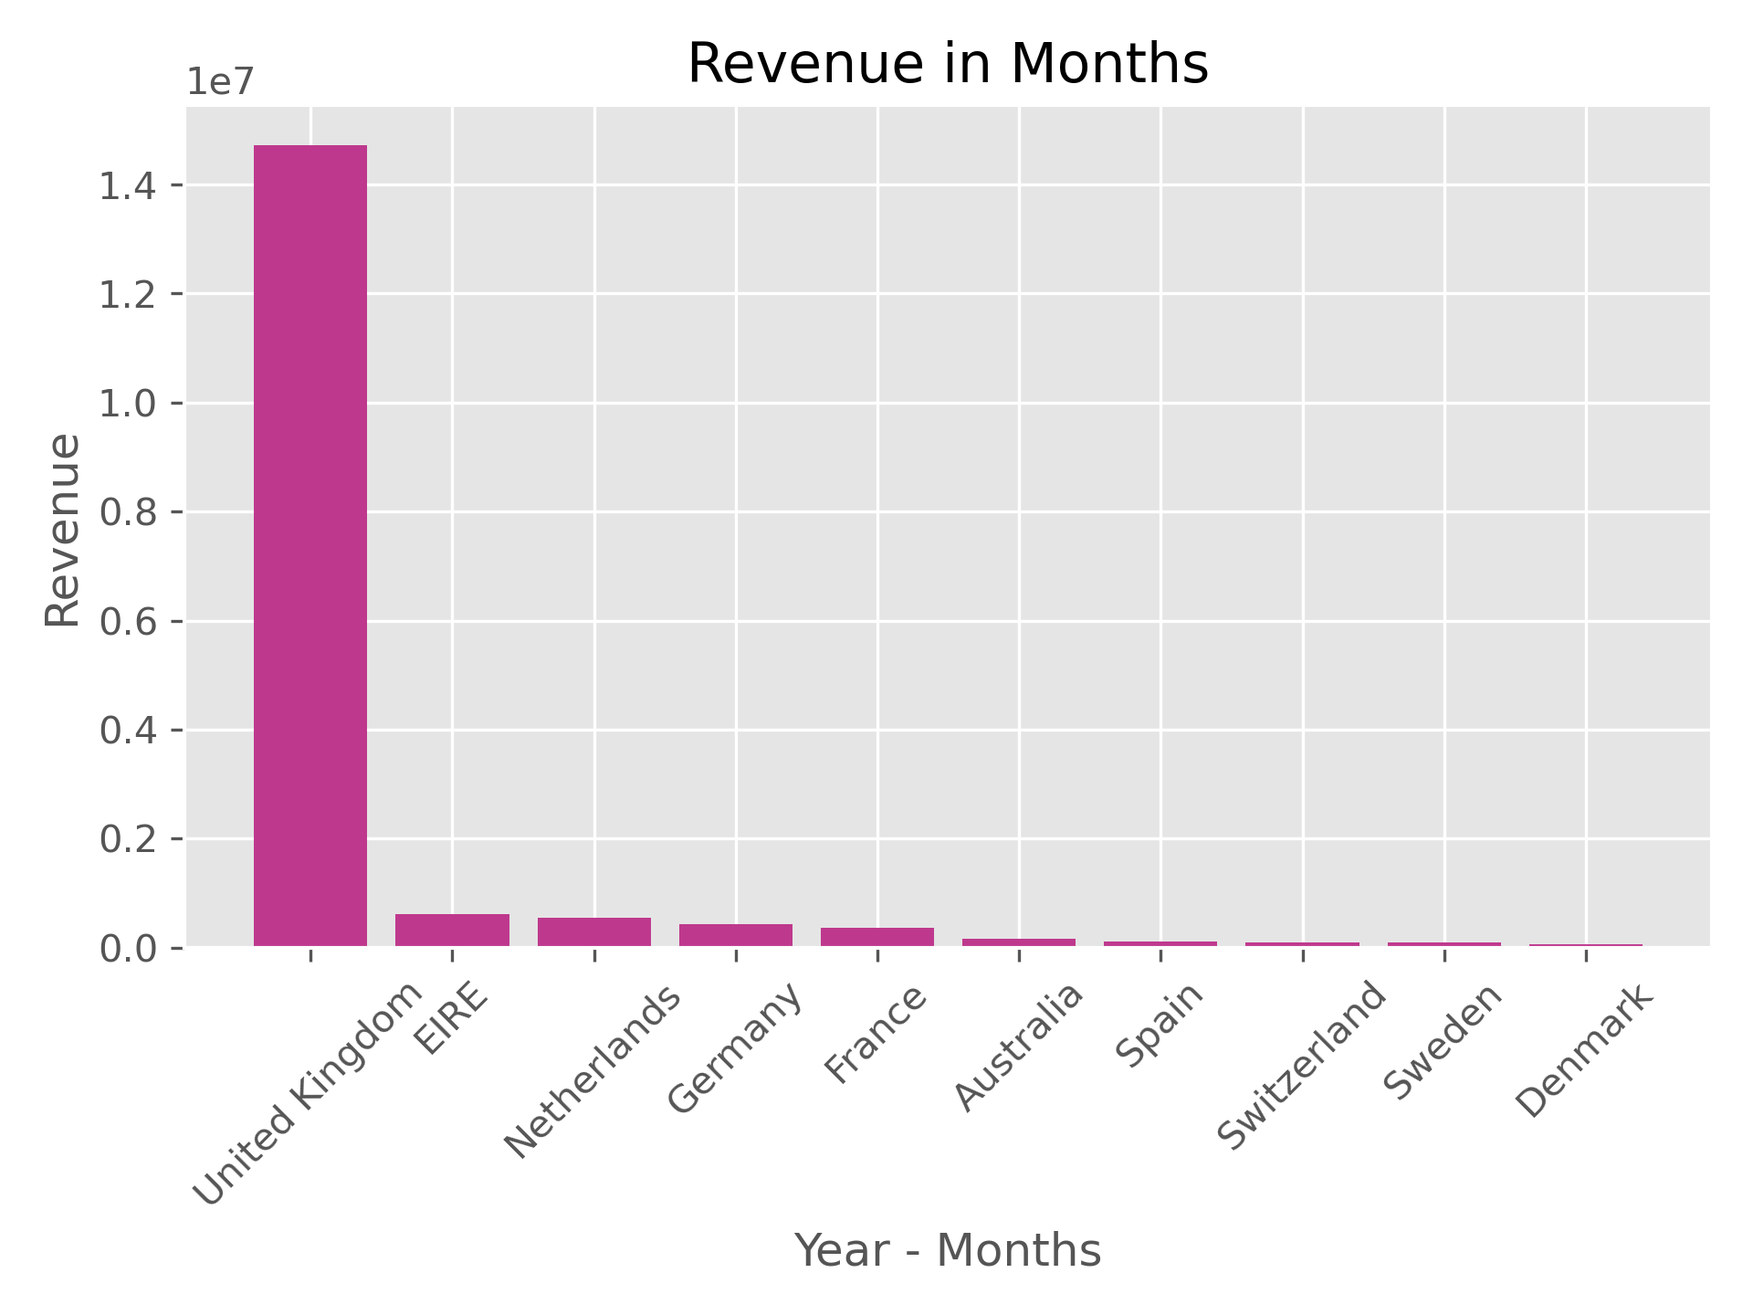
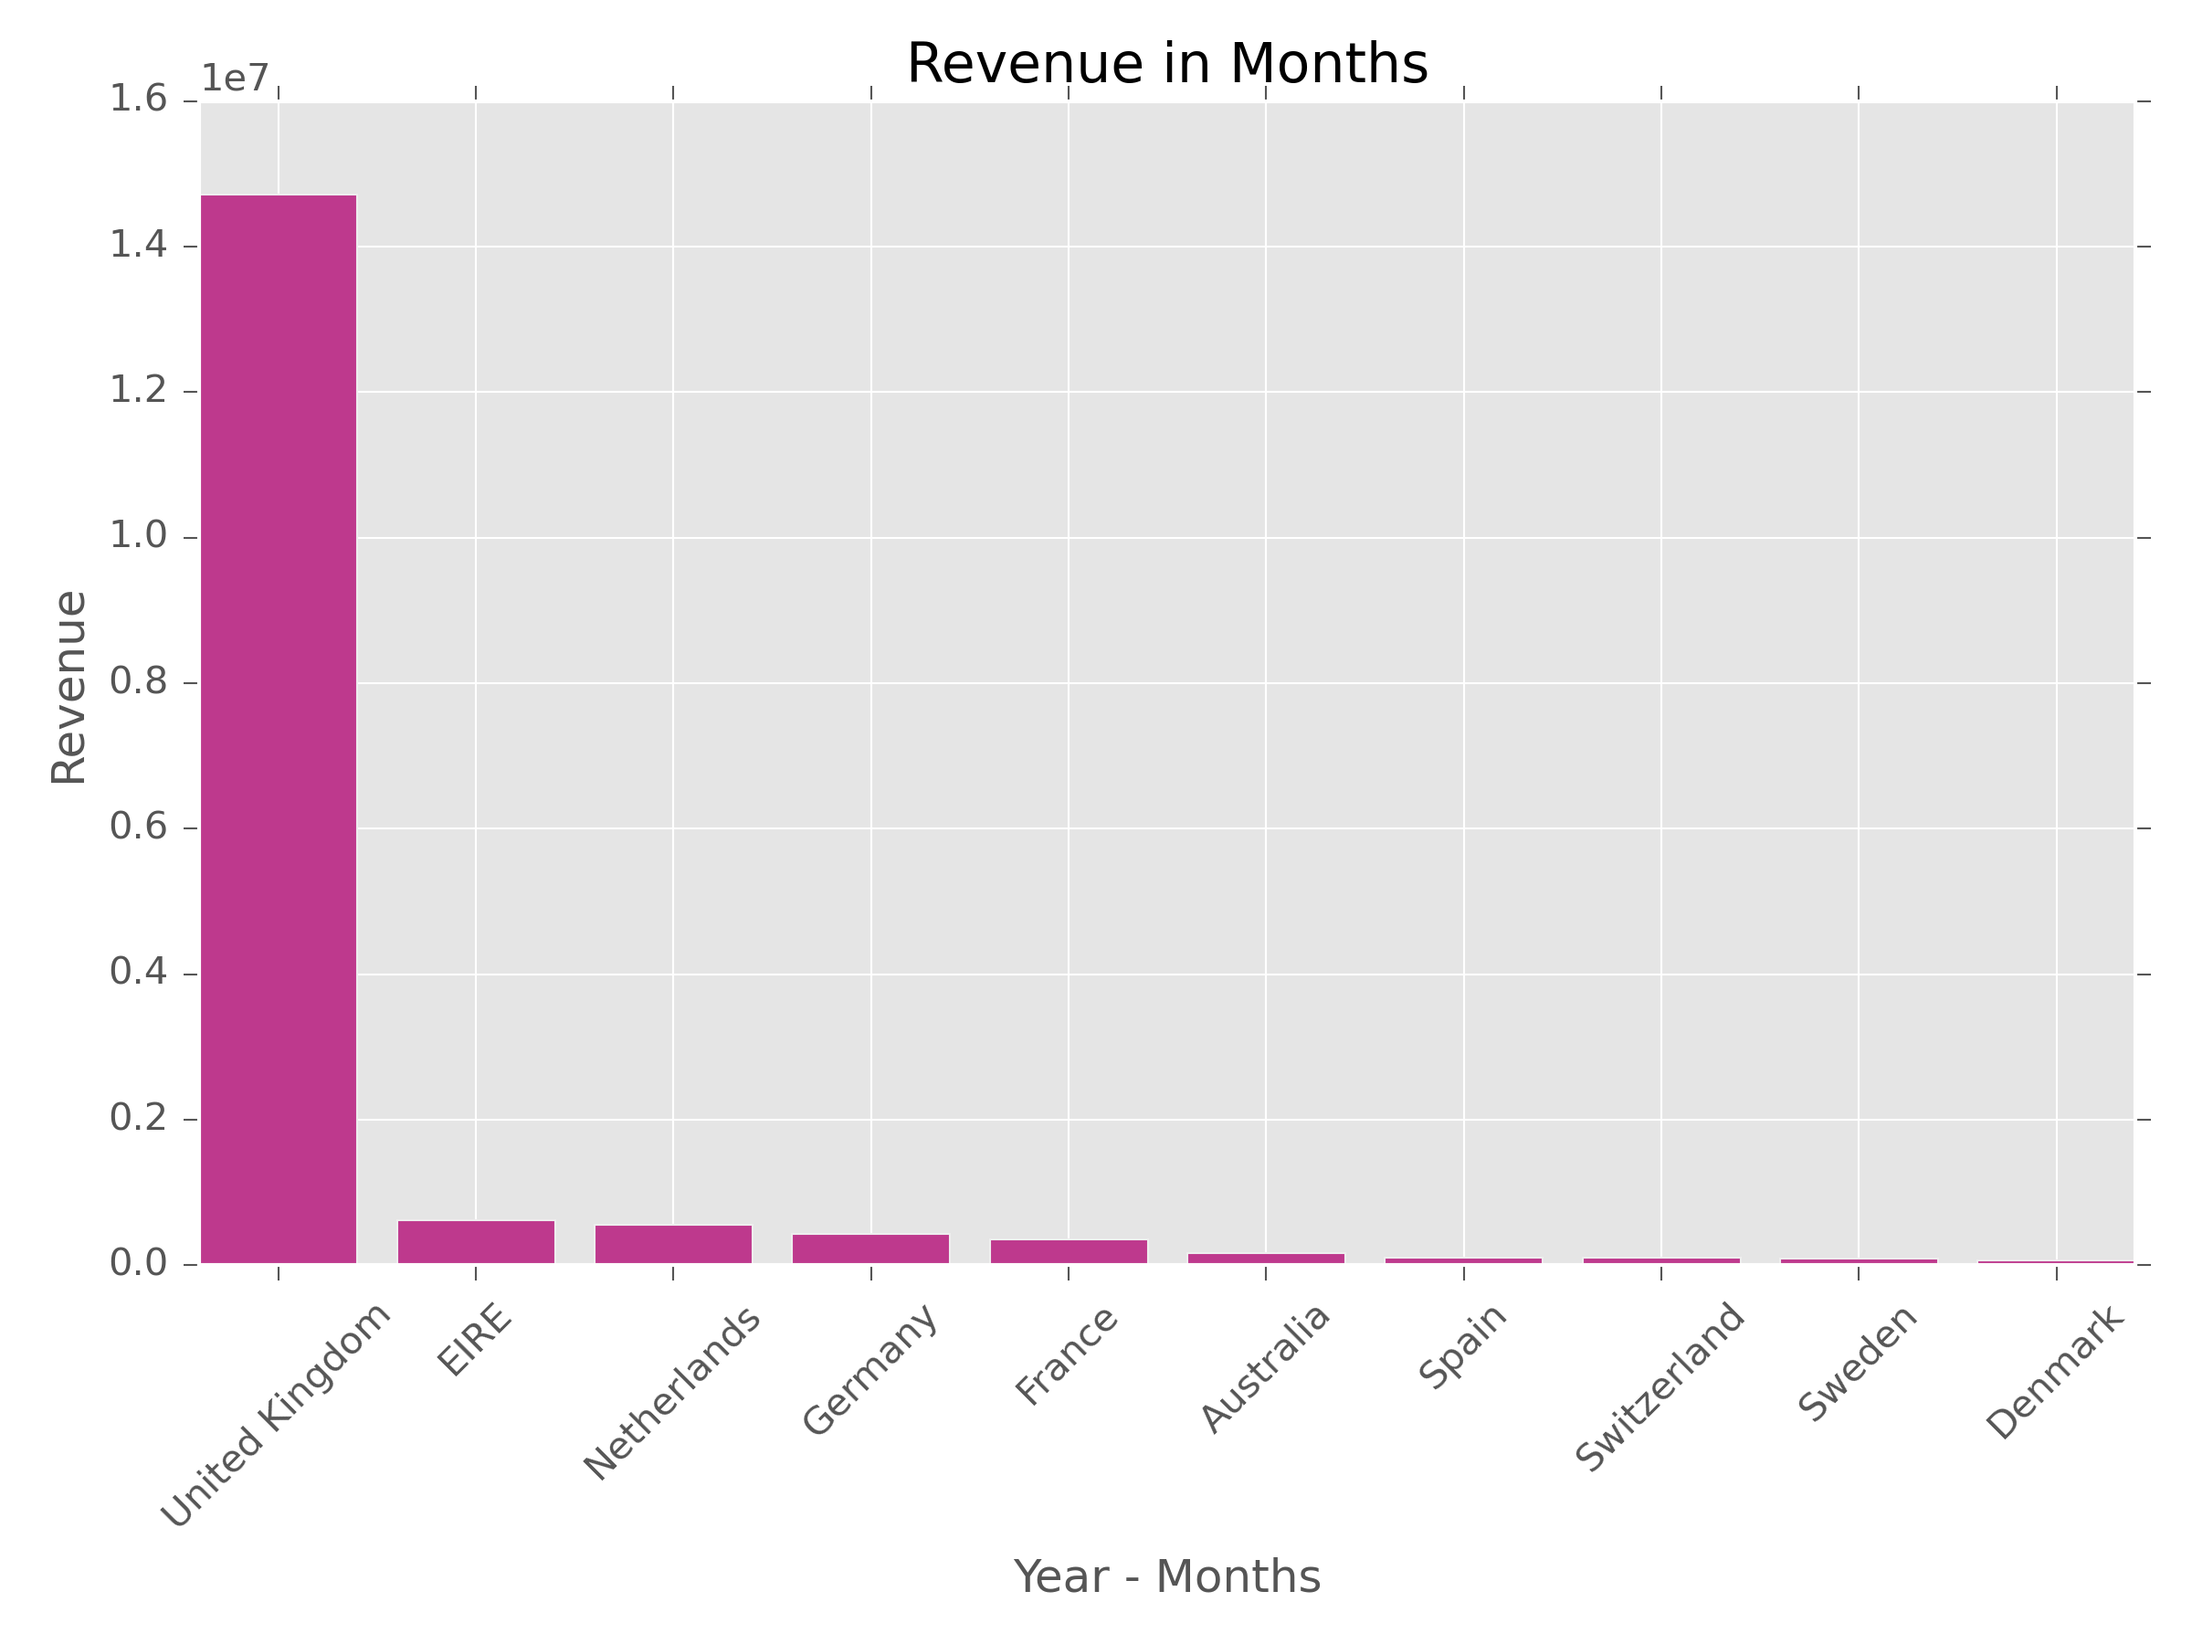
Code checkin for all diagrams

diff --git a/DataVisualization_excel.py b/DataVisualization_excel.py
@@ -47,6 +47,8 @@ print(monthly_revenue)
 print(monthly_revenue.index)
 print(monthly_revenue.values)
 print(type(monthly_revenue))
+
+
 #Create matplotlib
 # matplotlib  -->  seaborn,pandas plot
 
@@ -58,32 +60,32 @@ plt.figure(figsize=(16,8))
 
 print(plt.style.available)
 
-# plt.plot(monthly_revenue.index,monthly_revenue.values,marker ='o') #o means circle
-# plt.xlabel("Year - Months")
-# plt.ylabel("Revenue")
-# plt.title('Revenue in Months')
-# plt.xticks(rotation =45) # x-axis label rotation
-# plt.grid(True) # it will show grid lines in diagram
-# plt.style.use('classic') #use different styles of graphs
-# plt.savefig("Images\MonthlyRevenue1.png",dpi=300)
-# plt.show()
+plt.plot(monthly_revenue.index,monthly_revenue.values,marker ='o') #o means circle
+plt.xlabel("Year - Months")
+plt.ylabel("Revenue")
+plt.title('Revenue in Months')
+plt.xticks(rotation =45) # x-axis label rotation
+plt.grid(True) # it will show grid lines in diagram
+plt.style.use('classic') #use different styles of graphs
+plt.savefig("Images\MonthlyRevenue1.png",dpi=300)
+plt.show()
 
 
 ################################################################################
 
 
-# plt.plot(monthly_revenue.index,monthly_revenue.values,marker ='o') #o means circle
+plt.plot(monthly_revenue.index,monthly_revenue.values,marker ='o') #o means circle
 
-# for i,value in enumerate(monthly_revenue):
-#     plt.text(monthly_revenue.index[i],value,f"{int(value):,}",ha='center',fontsize=8)
-# plt.xlabel("Year - Months")
-# plt.ylabel("Revenue")
-# plt.title('Revenue in Months')
-# plt.xticks(rotation =45) # x-axis label rotation
-# plt.grid(False) # it dont show grid lines in diagram
-# plt.style.use('ggplot') #use different styles of graphs
-# plt.savefig("Images\MonthlyRevenue_ggplotstyle.png",dpi=300)
-# plt.show()
+for i,value in enumerate(monthly_revenue):
+    plt.text(monthly_revenue.index[i],value,f"{int(value):,}",ha='center',fontsize=8)
+plt.xlabel("Year - Months")
+plt.ylabel("Revenue")
+plt.title('Revenue in Months')
+plt.xticks(rotation =45) # x-axis label rotation
+plt.grid(False) # it dont show grid lines in diagram
+plt.style.use('ggplot') #use different styles of graphs
+plt.savefig("Images\MonthlyRevenue_ggplotstyle.png",dpi=300)
+plt.show()
 
 
 #################################################################################
